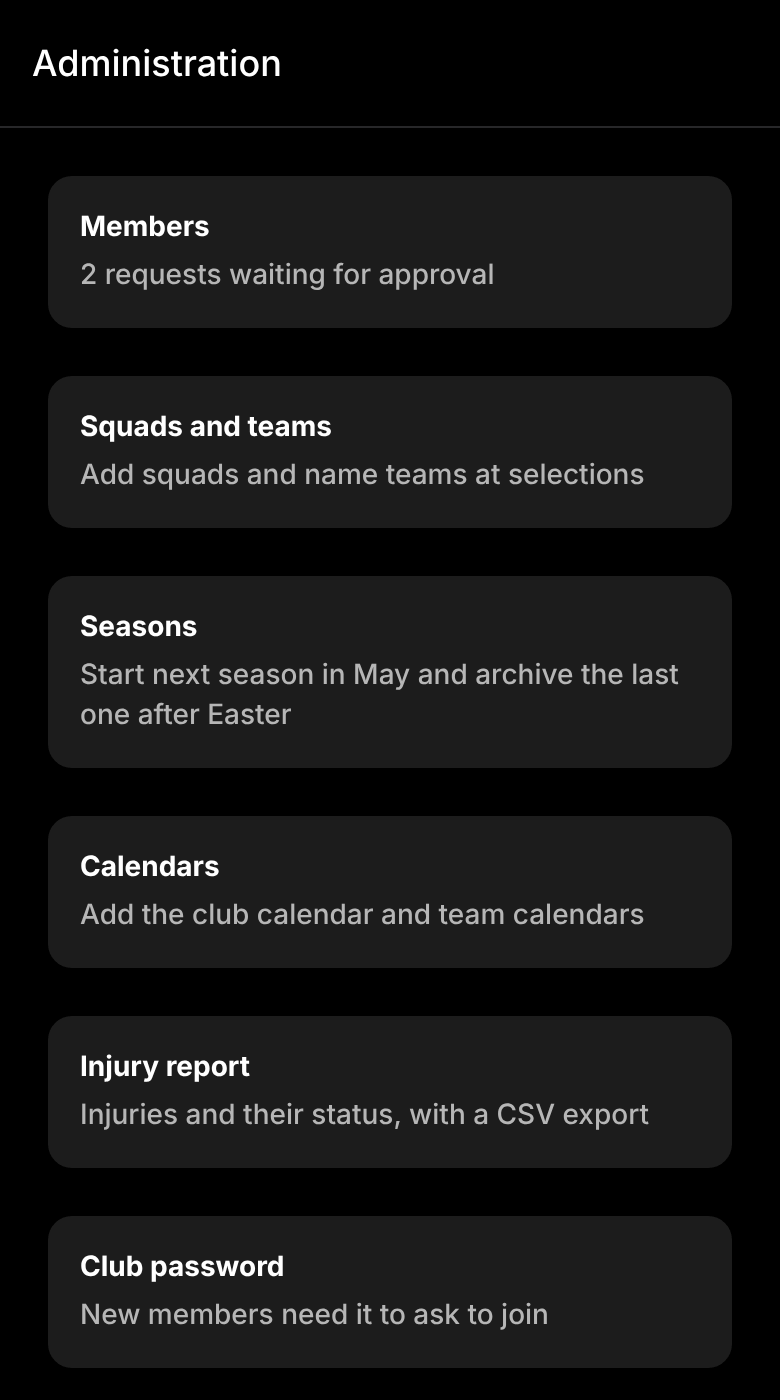
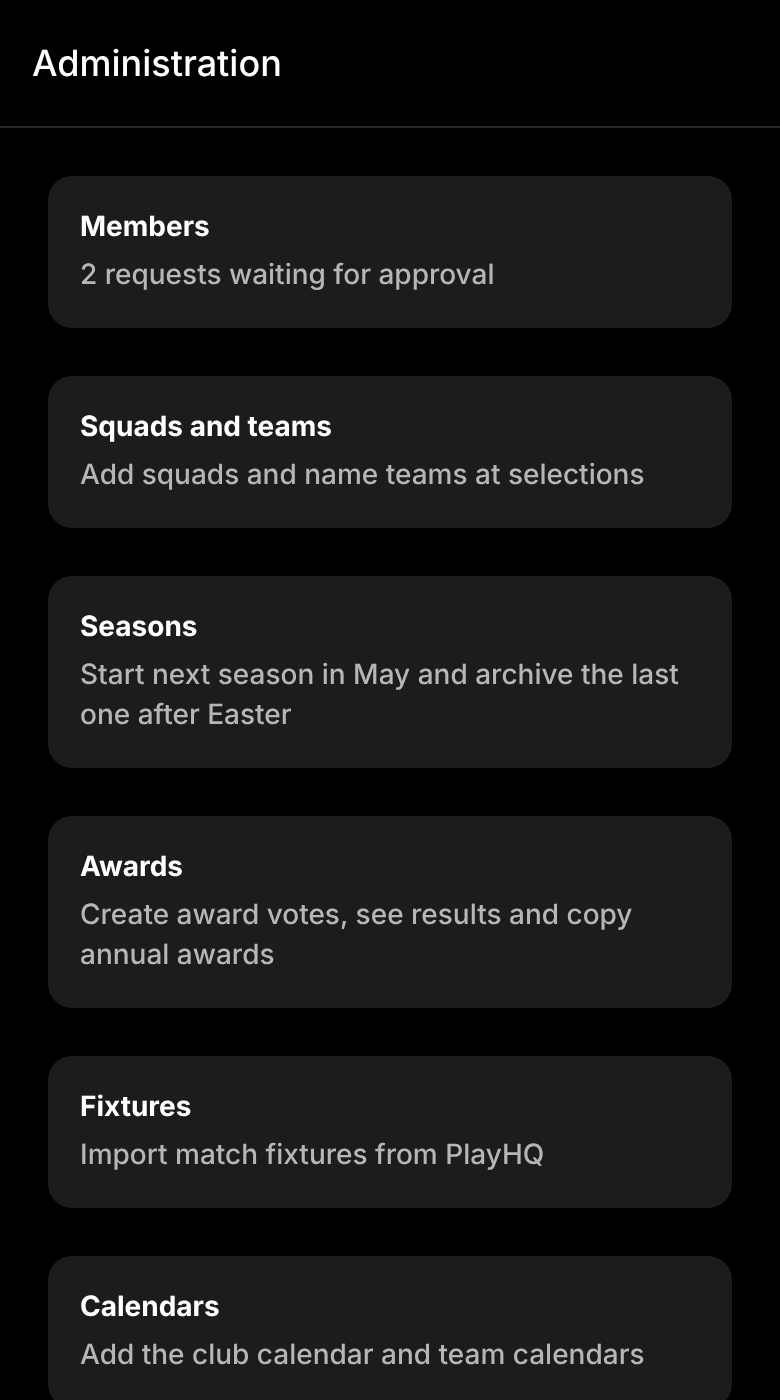
Add awards and fixtures to the user guide
Covers voting in club awards, coaches' match awards, setting up awards,
copying annual awards and importing PlayHQ fixtures, with screenshots,
the role table and who can see what.

Claude-Session: https://claude.ai/code/session_01922B87KKzLJybcyrwFcX4C

Changed region(s): [[0.0615, 0.6143, 0.9538, 1.0]]

diff --git a/docs/user-guide.md b/docs/user-guide.md
@@ -58,9 +58,14 @@ What each role sees on its home screen:
 | Sign off injury clearances             |         |                 |   Endorse    |            |    Accept     |                 |    Accept     |
 | Take attendance                        |         |                 |      ✓       |     ✓      |       ✓       |                 |       ✓       |
 | See athletes' attendance history       |         |                 |      ✓       |            |       ✓       |                 |       ✓       |
+| Vote in club awards                    |    ✓    |        ✓        |      ✓       |     ✓      |       ✓       |        ✓        |       ✓       |
+| Set up awards and see results          |         |                 |              |            |               |                 |       ✓       |
+| Import fixtures from PlayHQ            |         |                 |              |            |               |                 |       ✓       |
 | Administration                         |         |                 |              |            |               |                 |       ✓       |
 
 "Own groups" and "own athletes" mean the squads and teams you're listed in as a coach or manager.
+Club awards are voted on by the roles, squads and teams each award names, so not every award is
+open to everyone.
 
 <div style="page-break-before: always"></div>
 
@@ -121,11 +126,12 @@ fixing your details.
 
 Once you're approved, the home screen is where everything starts. From the top:
 
-- **To do**: things you need to do, such as your daily check-in or an injury clearance to sign off.
+- **To do**: things you need to do, such as your daily check-in, an award vote or an injury
+  clearance to sign off.
   Tap an item to go straight to it. Each item disappears once it's done. When there's nothing,
   it says "You're all caught up."
 - **Cards** for the features your role uses: Messages, Daily check-in, Check-ins, Injuries,
-  Attendance and Administration. A yellow number means something new or waiting for you.
+  Attendance, Awards and Administration. The Awards card shows while an award vote is open to you. A yellow number means something new or waiting for you.
 - **Coming up**: the next six events from your calendars. Tap **Full calendar** to see them all.
 - **My squads and teams**: tap one to see who's in it.
 - **Sign out** and **Delete account** at the bottom.
@@ -157,12 +163,17 @@ committee calendar.
   its events.
 - The chips (**All**, **Club**, your squads and teams) filter which calendars are shown.
 
+Your teams' matches from PlayHQ appear in the calendar too, for example "Mixed Open A v Rockets"
+with the venue and court. A bye shows as an all-day event. Match times follow PlayHQ, so a changed
+time shows once an admin refreshes the fixtures.
+
 Tap an event to see when and where it is. Tap the location to open it in maps, or **Copy** to copy
 the address.
 
 <img src="user-guide/calendar.png" width="210" alt="Calendar list view">
 <img src="user-guide/calendar-month.png" width="210" alt="Calendar month view">
 <img src="user-guide/event.png" width="210" alt="Event details">
+<img src="user-guide/calendar-fixtures.png" width="210" alt="Matches from PlayHQ in the calendar">
 
 ### Squads and teams
 
@@ -170,6 +181,27 @@ Tap a squad or team under **My squads and teams** to see everyone in it, with th
 Head Coach, Assistant Coach, Manager, Athlete, Touring athlete or Training partner.
 
 <img src="user-guide/team-roster.png" width="210" alt="Team roster">
+
+### Club awards
+
+When the club runs an award vote that includes you, it appears in your to-do list and on the
+**Awards** card. Who can vote depends on the award: for example, every member votes for Volunteer
+of the year, and athletes vote for their own team's Players' player.
+
+1. Tap the vote. It shows the award, what to think about, and when voting closes.
+2. Tap who you're voting for. For a 3-2-1 vote, tap three people in order: first place gets 3
+   votes, second 2 and third 1. Tap someone again to take them off.
+3. Tap **Vote**.
+
+You can't vote for yourself. You can change your vote until it closes: open it again, change your
+picks and tap **Change my vote**. Votes are secret. Nobody, admins included, can see who you voted
+for, and only admins see the results.
+
+Match awards, such as a coach's MVP, open for voting when each match starts and stay open for a
+day or two after it.
+
+<img src="user-guide/awards.png" width="210" alt="Award votes open to you">
+<img src="user-guide/award-vote.png" width="210" alt="A 3-2-1 vote">
 
 ### Deleting your account
 
@@ -316,6 +348,15 @@ flagged. If any are flagged, your to-do list says "Check in with N athletes".
 <img src="user-guide/check-ins-coach.png" width="210" alt="Coach's day-by-day check-ins">
 <img src="user-guide/check-ins-trends.png" width="210" alt="Check-in trends">
 <img src="user-guide/check-ins-athlete-history.png" width="210" alt="One athlete's check-in history">
+
+### Match awards
+
+Awards such as the coach's MVP can be voted on by coaches after every match. Each match your team
+plays opens its own vote when it starts, in your to-do list and under **Awards**, for example
+"Coach's MVP · Mixed Open A · Round 3 v Rockets". Some awards also have one **Preseason** vote,
+which counts for a set share of the result.
+
+<img src="user-guide/awards-coach.png" width="210" alt="A coach's match and preseason votes">
 
 ### Injuries and clearances
 
@@ -525,6 +566,59 @@ Nothing is deleted when a season is archived.
 <img src="user-guide/place-members.png" width="210" alt="Placing returning members">
 <img src="user-guide/season-archive.png" width="210" alt="Archiving last season">
 
+### Awards
+
+**Awards** lists the club's awards by season. Tap **New award** and set:
+
+- **Name**, **Description** (what voters should think about) and when **Voting closes**.
+- **Who votes**: **The whole club**, or **Chosen squads and teams**. For chosen groups, pick
+  **One winner** or **A winner for each** squad or team. With a winner for each, members vote only
+  in their own group.
+- **Roles that vote**. Athletes, coaches, managers and guardians vote in the squads and teams
+  they're in. Committee, admins and partners vote wherever they are. **Every member** opens it to
+  everyone.
+- **Who can be voted for**: **Athletes** or **Coaches** in the voting groups, **Any member**, or
+  **Names I list**, one per line, for people who aren't in the app, such as umpires.
+- **Ballot**: **One vote**, **3-2-1 votes** or **5-4-3-2-1 votes**.
+- **When people vote** (awards with a winner for each group): **Once, before it closes**, or
+  **After every match**, using the PlayHQ fixtures. Match votes stay open for a set time after
+  each match starts.
+- **Preseason share of the result** (match awards): voters also get one preseason ballot. With
+  25%, the result is 25% each nominee's share of the preseason points and 75% their share of the
+  match points.
+- **Repeats**: **Every year** or **This year only**.
+
+Open an award to see its standings for each squad or team, and how many people have voted in each
+match or ballot. Once anyone has voted, only the name, description, closing dates, match voting
+window and listed names can change, and the award can't be removed.
+
+**Copy annual awards into** the next season copies every **Every year** award with the same
+settings, closing a year later, for the squads and teams with the same names. Teams are usually
+named after the season starts, so the copy says when a team had no match yet: edit the award and
+add it once the team is named. **Copy into** on one award copies just that one.
+
+<img src="user-guide/admin-awards.png" width="210" alt="Awards admin">
+<img src="user-guide/new-award.png" width="210" alt="Creating an award">
+<img src="user-guide/award-results.png" width="210" alt="Award standings and who has voted">
+
+### Fixtures
+
+**Fixtures** brings in match fixtures from PlayHQ:
+
+1. On playhq.com, open the competition and copy its link, for example
+   `https://www.playhq.com/netball-australia/org/…/australian-championships-summer-202526/ec69e46d`.
+2. Paste it under **Add a PlayHQ competition** and tap **Look up**.
+3. Teams with "Thunder" in their name are listed. To find another, type part of its name under
+   **Find a team**. Tap each of our teams and choose the squad or team it is.
+4. Tap **Import games**.
+
+The games then show in each team's calendar and open match award votes. PlayHQ changes times and
+courts as a competition goes on, so tap **Refresh from PlayHQ** to pick up changes, or
+**Change teams** to link more teams. **Coming up** lists the next matches.
+
+<img src="user-guide/fixtures.png" width="210" alt="Fixtures from PlayHQ">
+<img src="user-guide/playhq-lookup.png" width="210" alt="Linking a PlayHQ team to a club team">
+
 ### Calendars
 
 **Calendars** connects the club's Outlook calendars. In Outlook, publish the calendar and copy its
@@ -570,6 +664,9 @@ once saved, only replaced or removed.
 | Injuries and documents  | The athlete, their guardians, their coaches, the committee and admins. Managers don't see injuries.                         |
 | Attendance records      | Coaches, the committee and admins. Managers see their own groups' sessions. Athletes and guardians don't see attendance.    |
 | Committee calendar      | Committee members and admins.                                                                                               |
+| Award votes             | Only the voter sees their own ballot. Nobody, admins included, can see who someone voted for.                               |
+| Award results           | Admins only: standings and how many people have voted.                                                                      |
+| Match fixtures          | The members of each squad or team, and admins.                                                                              |
 
 When someone leaves, injury records and proof documents are kept for 12 months, visible only to the
 committee and admins, then deleted automatically.
